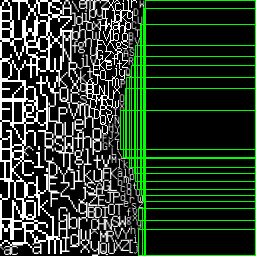
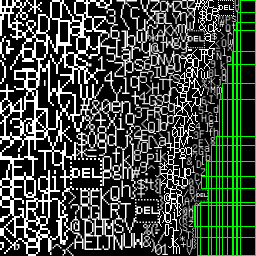
fix(text): handle zero-width characters

diff --git a/engine/src/renderer/text.rs b/engine/src/renderer/text.rs
@@ -38,7 +38,9 @@ impl Rect {
 
 #[derive(PartialEq, Eq, PartialOrd, Ord, Debug)]
 pub struct GlyphBounds {
-    rect: Rect,
+    pub rect: Rect,
+    pub advance: (i32, i32),
+    pub is_empty: bool,
 }
 
 #[derive(Debug, Hash, PartialEq, Eq, PartialOrd, Ord, Clone, Copy)]
@@ -239,8 +241,49 @@ impl GlyphAtlas {
         self.prune_bins();
     }
 
-    fn push_glyph(&mut self, glyph_key: GlyphKey) -> Option<&GlyphBounds> {
-        let bitmap_data = self.face.get_bitmap_data();
+    pub fn load_glyph(&mut self, glyph: u64, font_heigth: u32) -> Option<&GlyphBounds> {
+        let glyph_key = GlyphKey::new(glyph, font_heigth);
+
+        if self.glyphs.contains_key(&glyph_key) {
+            return self.glyphs.get(&glyph_key);
+        }
+
+        let Some(glyph_index) = self.face.get_char_index(glyph_key.glyph) else {
+            return None;
+        };
+
+        self.face.set_pixel_sizes(0, glyph_key.font_height).unwrap();
+        self.face.load_glyph(glyph_index, FT_LOAD_DEFAULT).unwrap();
+
+        let render_result = match self.render_mode {
+            GlyphRenderMode::Normal => self
+                .face
+                .render_glyph(FT_Render_Mode__FT_RENDER_MODE_NORMAL),
+            GlyphRenderMode::Sdf => self.face.render_glyph(FT_Render_Mode__FT_RENDER_MODE_SDF),
+        };
+
+        if render_result.is_err() {
+            return None;
+        }
+
+        let (advance_x, advance_y) = self.face.get_glyph_advance();
+
+        let Some(bitmap_data) = self.face.get_bitmap_data() else {
+            let glyph = GlyphBounds {
+                rect: Rect {
+                    x: 0,
+                    y: 0,
+                    width: 0,
+                    height: 0,
+                },
+                advance: (advance_x, advance_y),
+                is_empty: true,
+            };
+
+            self.glyphs.insert(glyph_key, glyph);
+
+            return self.glyphs.get(&glyph_key);
+        };
 
         let chosen_bin_index = self
             .choose_bin(bitmap_data.width, bitmap_data.rows)
@@ -265,47 +308,16 @@ impl GlyphAtlas {
             }
         }
 
-        let glyph = GlyphBounds { rect: glyph_bounds };
+        let glyph = GlyphBounds {
+            rect: glyph_bounds,
+            advance: (advance_x, advance_y),
+            is_empty: false,
+        };
 
         self.glyphs.insert(glyph_key, glyph);
         self.break_bin(chosen_bin_index, glyph_bounds);
 
         self.glyphs.get(&glyph_key)
-    }
-
-    fn insert_glyph(&mut self, glyph_key: GlyphKey) -> Option<&GlyphBounds> {
-        let Some(glyph_index) = self.face.get_char_index(glyph_key.glyph) else {
-            return None;
-        };
-
-        self.face.set_pixel_sizes(0, glyph_key.font_height).unwrap();
-
-        self.face.load_glyph(glyph_index, FT_LOAD_DEFAULT).unwrap();
-
-        match self.render_mode {
-            GlyphRenderMode::Normal => {
-                self.face
-                    .render_glyph(FT_Render_Mode__FT_RENDER_MODE_NORMAL)
-                    .unwrap();
-            }
-            GlyphRenderMode::Sdf => {
-                self.face
-                    .render_glyph(FT_Render_Mode__FT_RENDER_MODE_SDF)
-                    .unwrap();
-            }
-        }
-
-        self.push_glyph(glyph_key)
-    }
-
-    pub fn load_glyph(&mut self, glyph: u64, font_heigth: u32) -> Option<&GlyphBounds> {
-        let key = GlyphKey::new(glyph, font_heigth);
-
-        if self.glyphs.contains_key(&key) {
-            return self.glyphs.get(&key);
-        }
-
-        self.insert_glyph(key)
     }
 
     pub fn debug_render(&self) -> RgbaImage {
@@ -358,7 +370,7 @@ mod tests {
         let mut atlas = GlyphAtlas::new(GlyphRenderMode::Normal, 256, 256);
 
         for height in [32, 24, 18, 16, 12] {
-            for i in 65..123 {
+            for i in 32..128 {
                 atlas.load_glyph(i as u64, height);
             }
         }
@@ -370,7 +382,7 @@ mod tests {
     fn load_glyph_sdf() {
         let mut atlas = GlyphAtlas::new(GlyphRenderMode::Sdf, 512, 512);
 
-        for i in 65..123 {
+        for i in 32..128 {
             atlas.load_glyph(i as u64, 48);
         }
 

diff --git a/engine/src/freetype.rs b/engine/src/freetype.rs
@@ -202,18 +202,33 @@ impl Face {
         Ok(())
     }
 
-    pub fn get_bitmap_data(&self) -> GlyphBitmap<'_> {
+    pub fn get_bitmap_data(&self) -> Option<GlyphBitmap<'_>> {
         let bitmap = unsafe { (*self.raw_rec().glyph).bitmap };
         let width = bitmap.width;
         let rows = bitmap.rows;
-        let buffer =
-            unsafe { std::slice::from_raw_parts(bitmap.buffer, width as usize * rows as usize) };
 
-        GlyphBitmap {
+        let bitmap_size = (width * rows) as usize;
+
+        if bitmap_size == 0 {
+            return None;
+        }
+
+        let buffer = unsafe { std::slice::from_raw_parts(bitmap.buffer, bitmap_size) };
+
+        Some(GlyphBitmap {
             width,
             rows,
             buffer,
-        }
+        })
+    }
+
+    pub fn get_glyph_advance(&self) -> (i32, i32) {
+        let glyph_slot = unsafe { *self.raw_rec().glyph };
+
+        let advance_x = (glyph_slot.advance.x >> 6) as i32;
+        let advance_y = (glyph_slot.advance.y >> 6) as i32;
+
+        (advance_x, advance_y)
     }
 }
 
@@ -274,7 +289,7 @@ mod tests {
         let loaded_index = unsafe { (*face.raw_rec().glyph).glyph_index };
         assert_eq!(loaded_index, glyph_index);
 
-        let bitmap_data = face.get_bitmap_data();
+        let bitmap_data = face.get_bitmap_data().unwrap();
         assert_eq!(bitmap_data.width > 0, true);
         assert_eq!(bitmap_data.rows > 0, true);
     }
